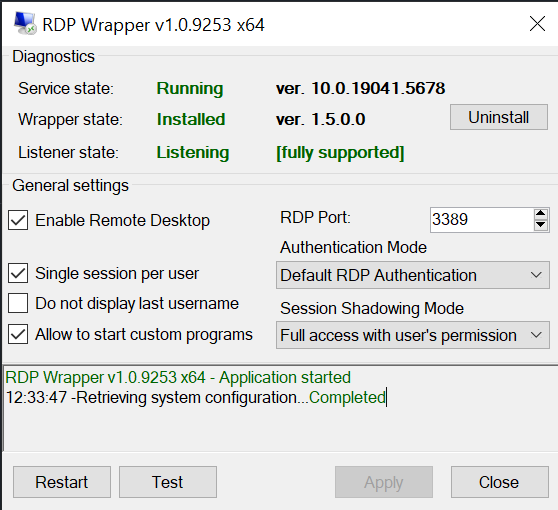
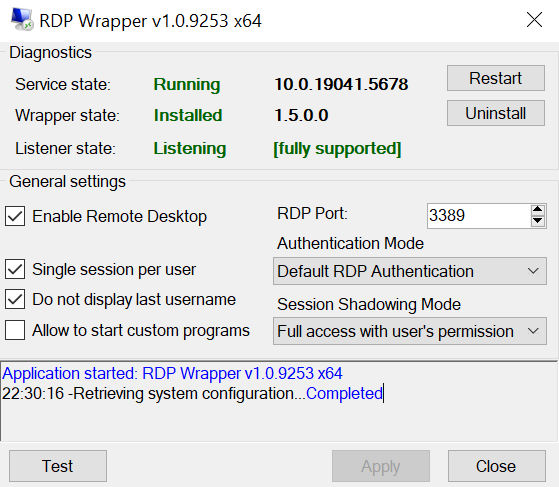
UI layout fix

diff --git a/rdpWrapper/MainForm.Designer.cs b/rdpWrapper/MainForm.Designer.cs
@@ -184,8 +184,8 @@ namespace rdpWrapper {
       this.panActions.Controls.Add(this.btnTest);
       this.panActions.Controls.Add(this.btnClose);
       this.panActions.Controls.Add(this.btnApply);
-      this.panActions.Dock = System.Windows.Forms.DockStyle.Top;
-      this.panActions.Location = new System.Drawing.Point(0, 212);
+      this.panActions.Dock = System.Windows.Forms.DockStyle.Bottom;
+      this.panActions.Location = new System.Drawing.Point(0, 267);
       this.panActions.Margin = new System.Windows.Forms.Padding(2);
       this.panActions.Name = "panActions";
       this.panActions.Size = new System.Drawing.Size(373, 30);
@@ -420,9 +420,8 @@ namespace rdpWrapper {
       // 
       // txtLog
       // 
-      this.txtLog.BorderStyle = System.Windows.Forms.BorderStyle.None;
       this.txtLog.Dock = System.Windows.Forms.DockStyle.Fill;
-      this.txtLog.Location = new System.Drawing.Point(0, 242);
+      this.txtLog.Location = new System.Drawing.Point(0, 212);
       this.txtLog.Margin = new System.Windows.Forms.Padding(2);
       this.txtLog.Name = "txtLog";
       this.txtLog.ReadOnly = true;

diff --git a/README.md b/README.md
@@ -44,7 +44,7 @@ The application is portable and has the following features:
 
 ### Preview of the application UI
 
-[<img src="https://github.com/sergiye/rdpWrapper/raw/master/preview.png" alt="Themes" width="300"/>](https://github.com/sergiye/rdpWrapper/releases)
+[<img src="https://github.com/sergiye/rdpWrapper/raw/master/preview.png" alt="Themes" width="300"/>](https://raw.githubusercontent.com/sergiye/rdpWrapper/master/preview.png)
 
 
 ## Download
